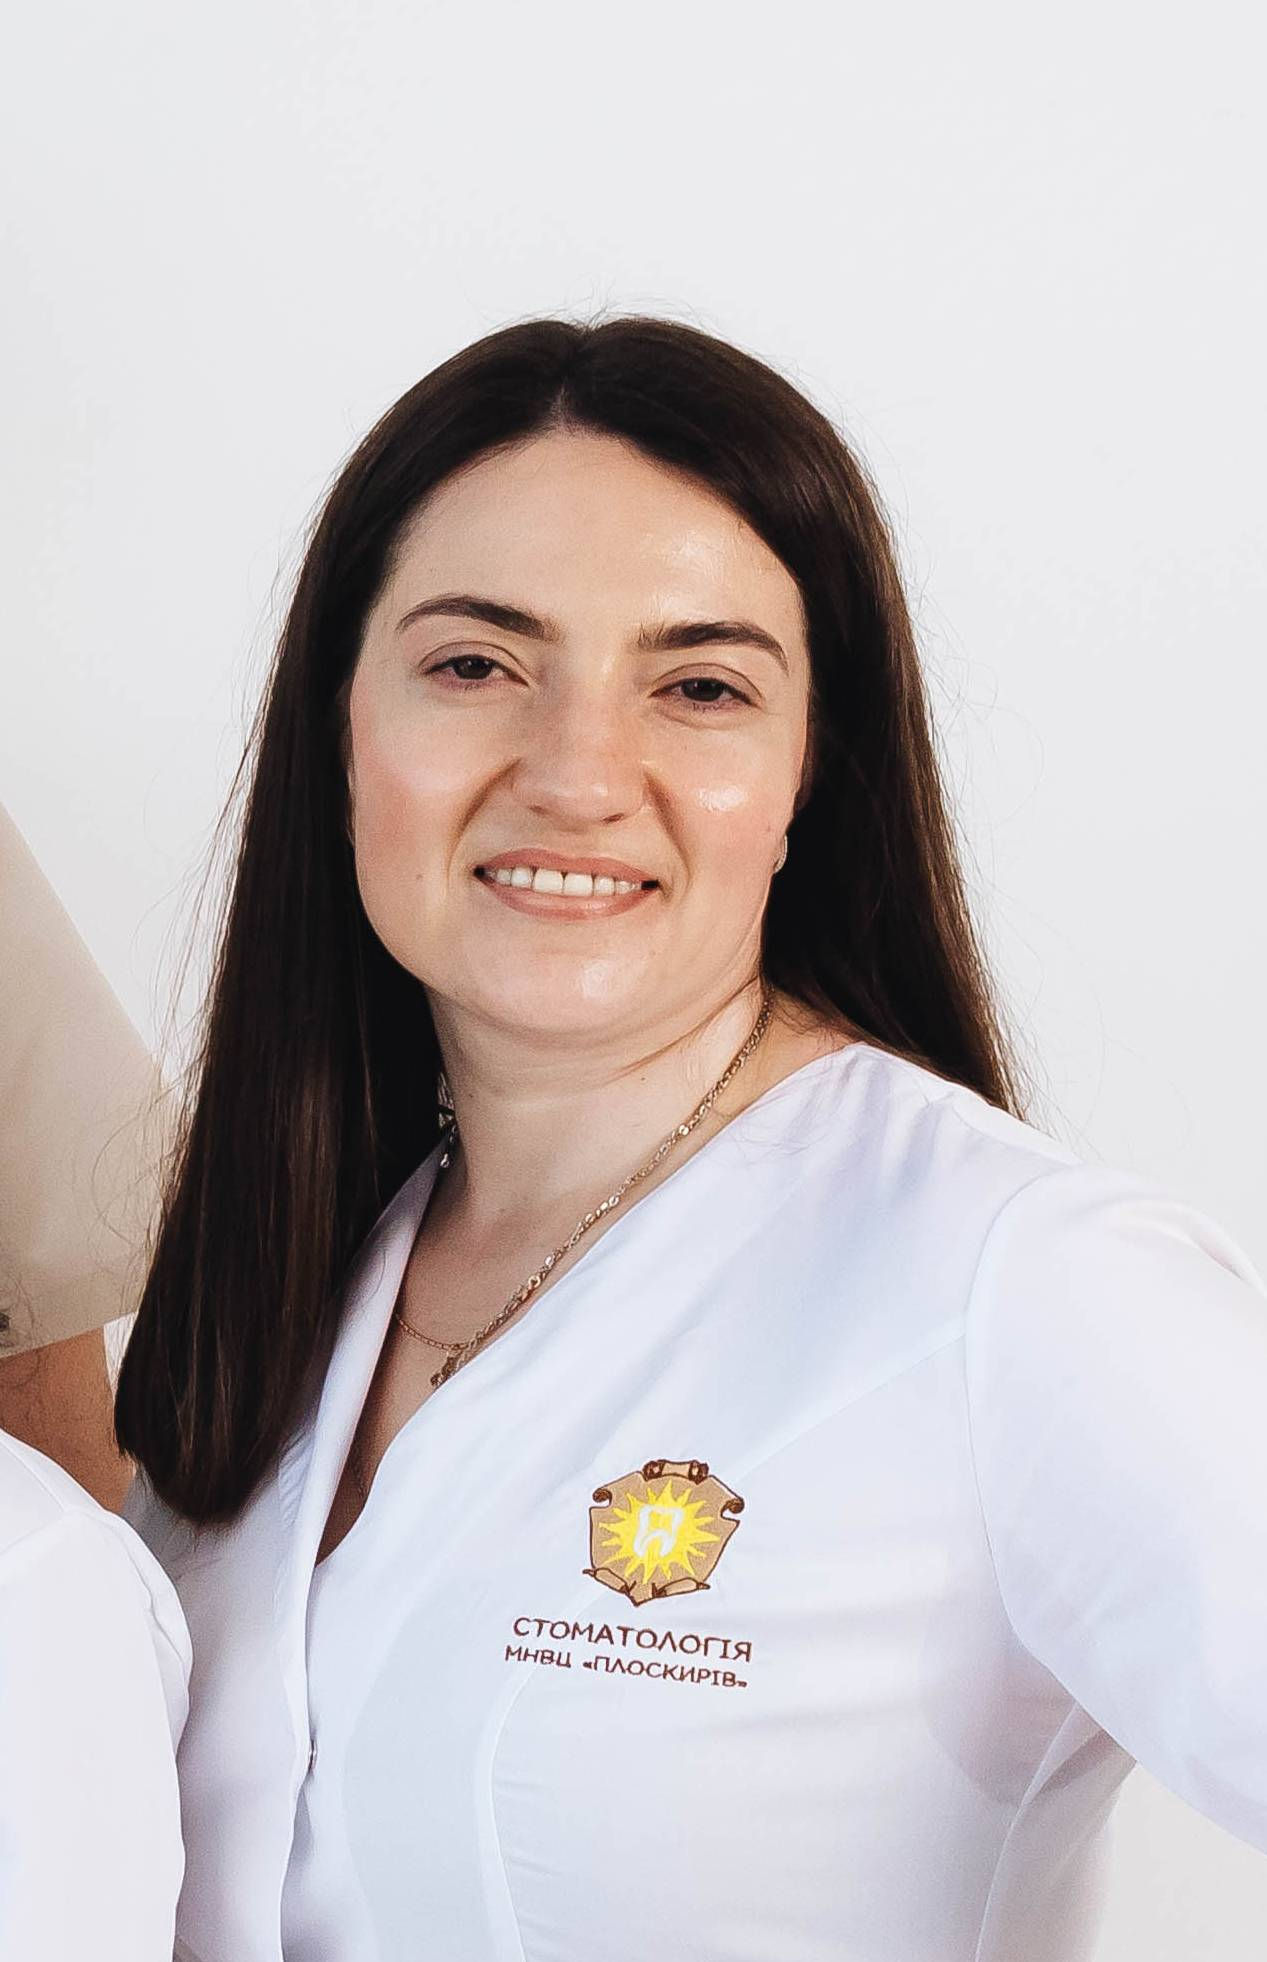
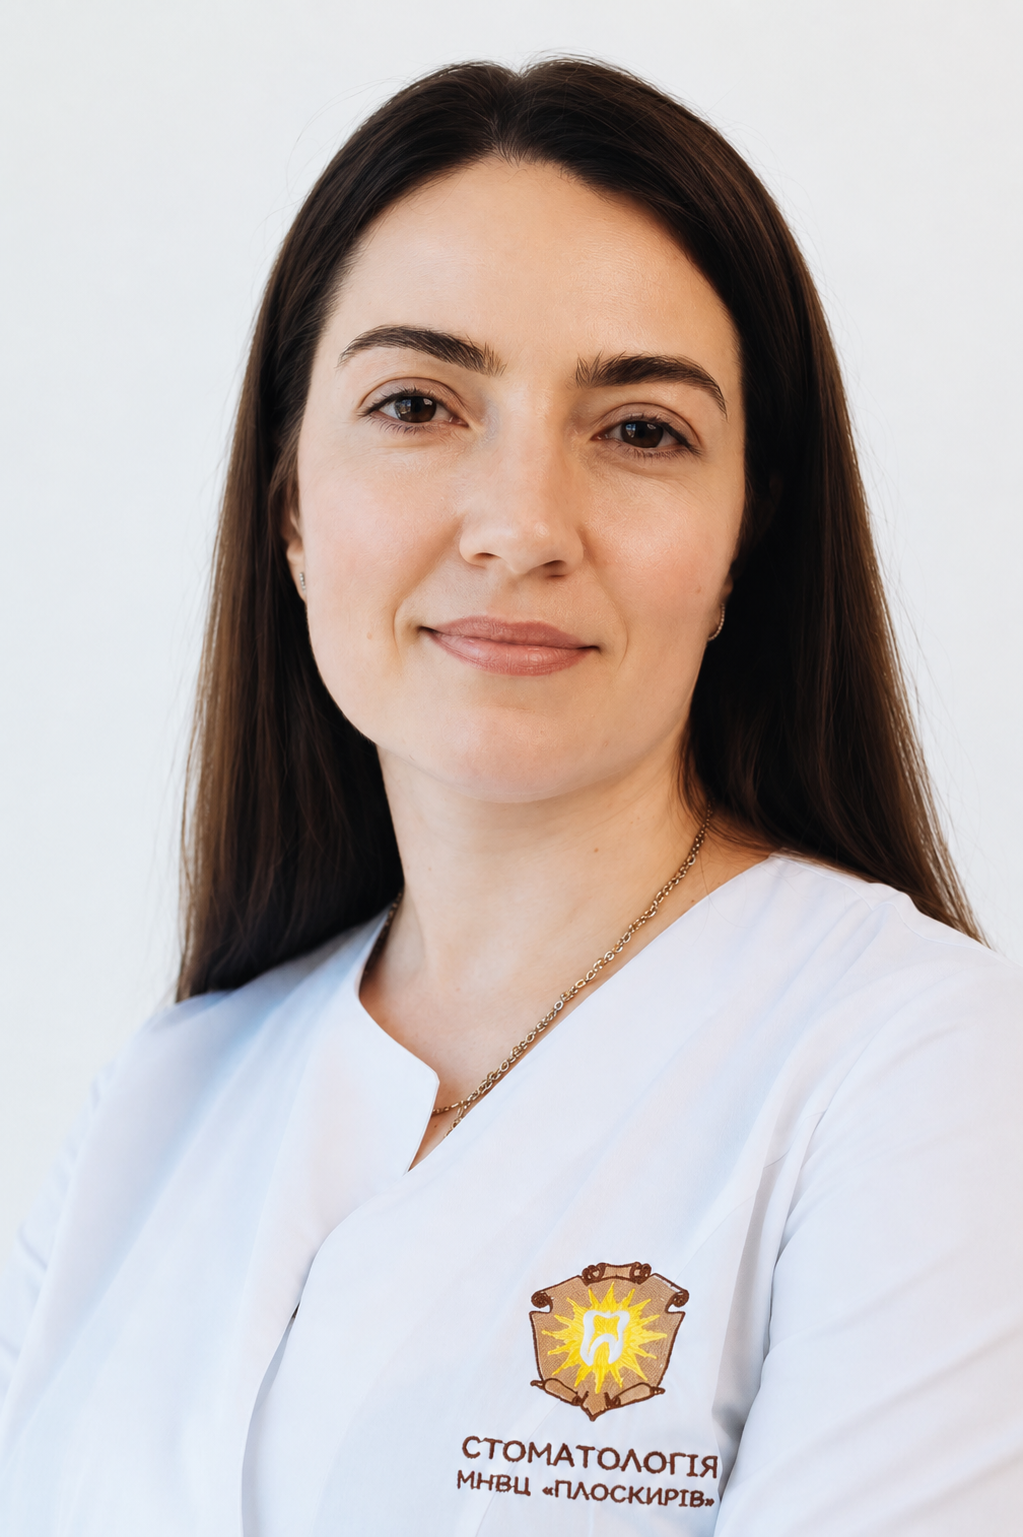
Added video. Updated images

diff --git a/app/_components/video.tsx b/app/_components/video.tsx
@@ -2,10 +2,11 @@
 
 import * as Dialog from "@radix-ui/react-dialog";
 import { X } from "lucide-react";
+import Image from "next/image";
 import { useState } from "react";
 
-const VIDEO_EMBED_URL =
-  "https://www.youtube.com/embed/dQw4w9WgXcQ?autoplay=1&rel=0";
+const VIDEO_SRC =
+  "https://6pzshka9v5rmnwez.public.blob.vercel-storage.com/presentation.mp4";
 
 export default function Video() {
   const [open, setOpen] = useState(false);
@@ -38,41 +39,13 @@ export default function Video() {
                 aria-label="Відкрити відеоогляд клініки"
                 className="group relative mt-12 block aspect-video w-full overflow-hidden rounded-[28px] bg-dark shadow-[0_32px_80px_rgba(0,0,0,0.14)] focus-visible:outline-none focus-visible:ring-2 focus-visible:ring-accent focus-visible:ring-offset-4 focus-visible:ring-offset-cream"
               >
-                <span
-                  aria-hidden="true"
-                  className="absolute inset-0 bg-[linear-gradient(135deg,#3D2E24_0%,#251A14_50%,#1C1C1E_100%)]"
+                <Image
+                  src="/images/banner/IMG_9318.jpg"
+                  alt="Команда стоматології Плоскирів"
+                  fill
+                  sizes="(max-width: 900px) 100vw, 900px"
+                  className="object-cover"
                 />
-                <span
-                  aria-hidden="true"
-                  className="absolute inset-0 grid place-items-center"
-                >
-                  <svg
-                    width="120"
-                    height="120"
-                    viewBox="0 0 120 120"
-                    fill="none"
-                    className="opacity-15"
-                  >
-                    <circle cx="60" cy="60" r="56" stroke="white" strokeWidth="2" />
-                    <rect
-                      x="20"
-                      y="30"
-                      width="80"
-                      height="60"
-                      rx="6"
-                      stroke="white"
-                      strokeWidth="2"
-                    />
-                    <circle cx="40" cy="50" r="8" stroke="white" strokeWidth="1.5" />
-                    <path
-                      d="M20 75 L38 55 L55 68 L72 48 L100 75"
-                      stroke="white"
-                      strokeWidth="1.5"
-                      strokeLinecap="round"
-                      strokeLinejoin="round"
-                    />
-                  </svg>
-                </span>
                 <span
                   aria-hidden="true"
                   className="absolute inset-0 bg-[linear-gradient(to_bottom,rgba(0,0,0,0.1)_0%,rgba(0,0,0,0.5)_100%)]"
@@ -83,7 +56,7 @@ export default function Video() {
                 </span>
 
                 <span className="absolute bottom-5 right-5 z-10 rounded-full bg-black/60 px-3 py-1 text-[13px] font-semibold text-white backdrop-blur">
-                  2:34
+                  1:04
                 </span>
 
                 <span className="absolute left-1/2 top-1/2 z-10 grid h-[60px] w-[60px] -translate-x-1/2 -translate-y-1/2 place-items-center rounded-full bg-white/95 shadow-[0_8px_40px_rgba(0,0,0,0.35)] transition-[transform,box-shadow] duration-200 ease-out group-hover:scale-110 group-hover:shadow-[0_12px_48px_rgba(224,123,57,0.4)] md:h-20 md:w-20">
@@ -115,11 +88,14 @@ export default function Video() {
                 </Dialog.Close>
                 <div className="aspect-video w-full overflow-hidden rounded-[20px] bg-black shadow-[0_40px_120px_rgba(0,0,0,0.6)]">
                   {open && (
-                    <iframe
-                      src={VIDEO_EMBED_URL}
+                    <video
+                      src={VIDEO_SRC}
+                      poster="/images/banner/IMG_9318.jpg"
                       title="Відеоогляд стоматології Плоскирів"
-                      allow="autoplay; fullscreen; encrypted-media; picture-in-picture"
-                      allowFullScreen
+                      controls
+                      autoPlay
+                      playsInline
+                      preload="none"
                       className="h-full w-full border-0"
                     />
                   )}
